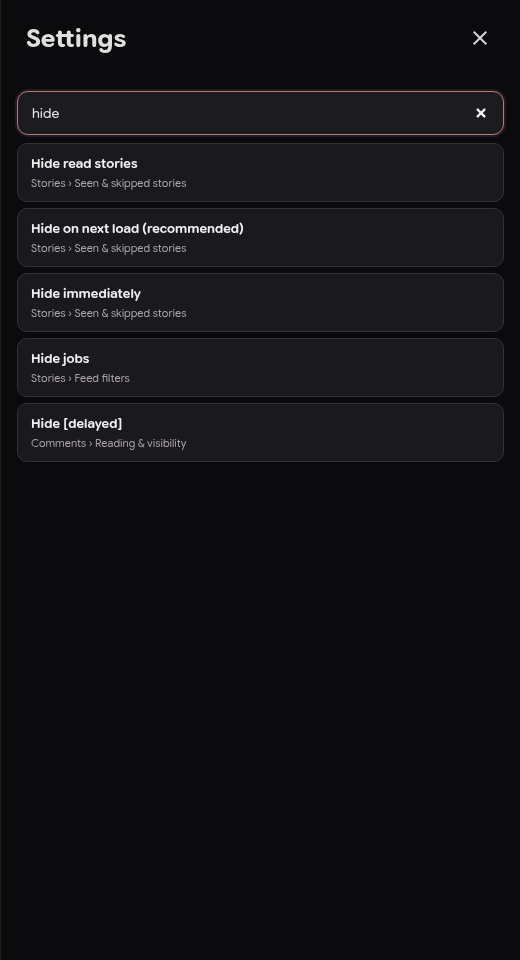
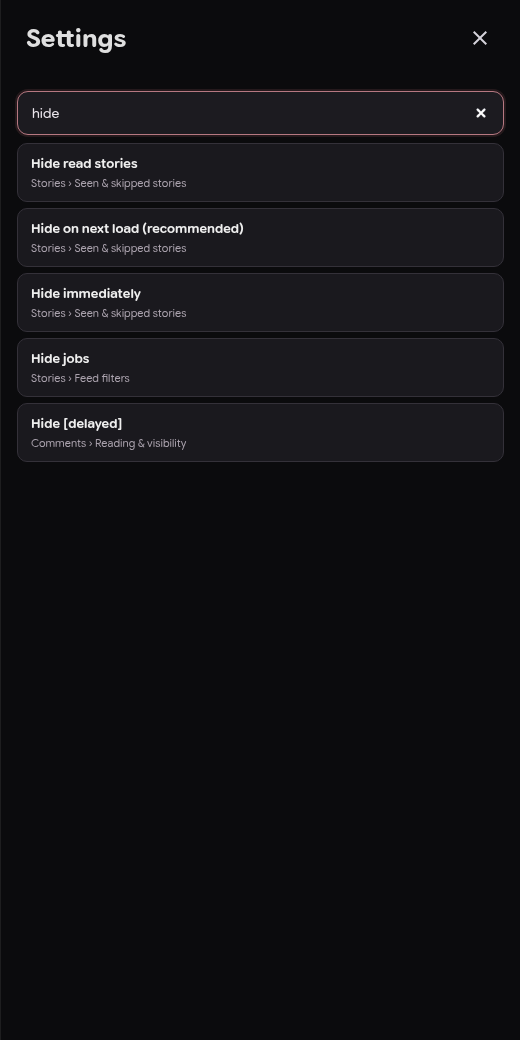
refactor: simplify scrolled-past choices and separate settings heading

Changed region(s): [[0.0308, 0.0938, 0.9846, 0.4688], [0.0308, 0.0312, 0.2462, 0.0625], [0.8923, 0.0312, 0.9538, 0.0625]]

diff --git a/src/styles.css b/src/styles.css
@@ -201,14 +201,19 @@ html.harmonova-hn *{box-sizing:border-box}
 .story-card.selected{filter:brightness(1.08);box-shadow:0 0 0 2px rgba(255,255,255,.10) inset,0 2px 8px rgba(0,0,0,.32)}
 .harmonova-app[data-dimread="true"] .story-card.is-read{opacity:.25}
 .harmonova-app[data-dimread="false"] .story-card.is-read{opacity:1}
-.harmonova-app[data-scrolledmode="dim"] .story-card.is-skipped,
 .harmonova-app[data-scrolledmode="future"] .story-card.is-skipped{opacity:.25}
-.setting-scrolled-group{border:1px solid rgba(255,255,255,.14);border-radius:10px;padding:14px 14px 10px;margin:10px 0 16px;min-width:0}
-.setting-scrolled-group legend{font-weight:650;padding:0 6px}
-.setting-scrolled-option{display:flex;gap:12px;align-items:center;padding:10px 3px;cursor:pointer}
-.setting-scrolled-option input{accent-color:#dedede;flex:0 0 auto}
-.setting-scrolled-copy{display:flex;flex-direction:column;gap:3px;min-width:0}
-.setting-scrolled-copy small{color:#aaa;font-size:12px;line-height:1.4}
+/* Visually separate skipped-by-scrolling from opened/read-story toggles.
+   Avoid a fieldset legend: it looks like it belongs to Hide read stories. */
+.setting-scrolled-group{margin:16px 0 0;padding:19px 1px 4px;border:0;border-top:1px solid rgba(255,255,255,.16);min-width:0}
+.setting-scrolled-title{margin:0 0 6px;color:#ede9ef;font-size:14px;font-weight:720}
+.setting-scrolled-description{margin:0 0 11px;font-size:12px;color:#aaa5ae;line-height:1.5}
+.setting-scrolled-choices{border:1px solid rgba(255,255,255,.09);border-radius:10px;background:#19191d;padding:5px 12px}
+.setting-scrolled-option{display:flex;gap:12px;align-items:flex-start;padding:13px 3px;cursor:pointer}
+.setting-scrolled-option+.setting-scrolled-option{border-top:1px solid rgba(255,255,255,.07)}
+.setting-scrolled-option input{accent-color:#dedede;flex:0 0 auto;margin-top:3px}
+.setting-scrolled-copy{display:flex;flex-direction:column;gap:4px;min-width:0}
+.setting-scrolled-copy strong{font-size:13px}
+.setting-scrolled-copy small{color:#aaa;font-size:12px;line-height:1.45}
 .story-card-main{
   min-width:0;
   align-self:stretch;

diff --git a/src/content/settings.js b/src/content/settings.js
@@ -23,13 +23,19 @@
   }
 
   function scrolledStorySetting() {
-    const wrap = dependencies.el("fieldset", "setting-scrolled-group");
-    wrap.appendChild(dependencies.el("legend", "", "Scrolled-past stories"));
-    wrap.appendChild(dependencies.el("p", "settings-note", "Choose what happens when a story is scrolled past and leaves the visible area."));
+    // A standard section, not a fieldset legend, keeps this setting clearly
+    // separate from the preceding Hide read stories toggle.
+    const wrap = dependencies.el("section", "setting-scrolled-group");
+    const heading = dependencies.el("h4", "setting-scrolled-title", "Scrolled-past stories");
+    heading.id = "harmonova-scrolled-story-heading";
+    const description = dependencies.el("p", "setting-scrolled-description",
+      "Separate from stories you open. Choose what happens after a story scrolls above the feed.");
+    const choices = dependencies.el("div", "setting-scrolled-choices");
+    choices.setAttribute("role", "radiogroup");
+    choices.setAttribute("aria-labelledby", heading.id);
+    wrap.append(heading, description, choices);
     const options = [
       ["off", "Off (default)", "Do not track scrolled-past stories."],
-      ["track", "Track only", "Remember skipped stories without changing their appearance."],
-      ["dim", "Grey out", "Keep stories visible but dim them after scrolling past."],
       ["future", "Hide on next load (recommended)", "Grey out immediately. Keep stories available for scrolling back up; hide them after refreshing, reopening, or switching feeds."],
       ["immediate", "Hide immediately", "Remove stories once they scroll completely above the viewport. Scrolling back to them is not possible."],
     ];
@@ -51,7 +57,7 @@
       const detail = dependencies.el("span", "setting-scrolled-copy");
       detail.append(dependencies.el("strong", "", title), dependencies.el("small", "", description));
       label.append(radio, detail);
-      wrap.appendChild(label);
+      choices.appendChild(label);
     }
     return wrap;
   }

diff --git a/src/settings-schema.js b/src/settings-schema.js
@@ -52,7 +52,7 @@
   const blockedKeys=new Set(['__proto__','prototype','constructor']);
   const username=v=>typeof v==='string' && /^[A-Za-z0-9_-]{1,32}$/.test(v) && !blockedKeys.has(v);
   const ranges={storyTextSize:[14.5,20.5],commentTextSize:[12,18],commentZoom:[65,150],contentScale:[65,150]};
-  const enums={scrolledStoryBehavior:['off','track','dim','future','immediate'],previewImages:['small','medium','off'],commentStyle:['outlined','raised','standard','flat'],depthMode:['theme_default','material_you','colors','author','monochrome','none'],commentSort:['Default','Newest first','Oldest first','Reply count'],faviconProvider:['google','duckduckgo','direct'],uiTheme:['amoled','charcoal','navy'],uiFont:['rounded','system','serif']};
+  const enums={scrolledStoryBehavior:['off','future','immediate'],previewImages:['small','medium','off'],commentStyle:['outlined','raised','standard','flat'],depthMode:['theme_default','material_you','colors','author','monochrome','none'],commentSort:['Default','Newest first','Oldest first','Reply count'],faviconProvider:['google','duckduckgo','direct'],uiTheme:['amoled','charcoal','navy'],uiFont:['rounded','system','serif']};
   const feeds=['top','new','best','ask','show','jobs','pool','active','bestcomments','launches','whoishiring','noobstories','classic','front'];
   function valid(key,value) {
     if(!Object.hasOwn(defaults,key)||blockedKeys.has(key))return false;
@@ -67,6 +67,7 @@
   function normalize(value,complete=true) {
     const out=complete?{...defaults}:{};
     if(!value || typeof value!=='object' || Array.isArray(value))return out;
+    // Removed 'track' and 'dim' modes become Off, never an implicit hide.
     for(const key of Object.keys(defaults)) {
       const v=key==='uiFont'&&value[key]==='harmonic'?'system':value[key];
       if(Object.hasOwn(value,key)&&valid(key,v))out[key]=Array.isArray(v)?[...new Set(v)]:v;

diff --git a/docs/FEATURES.md b/docs/FEATURES.md
@@ -16,7 +16,7 @@ Choose a feed from the title menu: Top, New, Best, Ask HN, Show HN, Jobs, and ad
 
 Each story card can show its title, points, domain, age, reply count, local domain marker, and an optional preview image. Card tints help stories stand apart without turning the entire page into a grid of boxes. Story settings let you change density, preview sizing, points display, dimming for read stories, keyword/domain filters, and whether a card click opens the article or its comments.
 
-The optional **Scrolled-past stories** setting offers five modes: **Off (default)**, **Track only**, **Grey out**, **Hide on next load (recommended)**, and **Hide immediately**. A story is recorded only after a user scrolls it above the feed viewport. Grey out preserves cards while dimming them; Hide on next load immediately dims but retains cards for scrolling back until refresh/reopen/switch; Hide immediately removes crossed cards while attempting to preserve visible scroll position. Excluded candidates are replaced by eligible stories to fill the 20-story initial batch or 32-story Load more batch when the source contains enough matches. Scrolled history is local to the extension and shared across feed lists by HN item ID, not title or position.
+The optional **Scrolled-past stories** setting offers three modes: **Off (default)**, **Hide on next load (recommended)**, and **Hide immediately**. A story is recorded only after a user scrolls it above the feed viewport. Hide on next load immediately greys cards out but retains them for scrolling back until refresh/reopen/switch; Hide immediately removes crossed cards while attempting to preserve visible scroll position. Excluded candidates are replaced by eligible stories to fill the 20-story initial batch or 32-story Load more batch when the source contains enough matches. Scrolled history is local to the extension and shared across feed lists by HN item ID, not title or position.
 
 Right-click or long-press a read story card and choose **Mark as unread** to undo the dimming and remove that story from saved read history.
 
@@ -61,7 +61,7 @@ Open **Settings** from HarmoNova's menu or the extension toolbar popup.
 
 The new layout keeps complex controls in dedicated disclosure groups. The [Stories subgroups](assets/settings-redesign-stories.png), [seen-story behavior options](assets/settings-redesign-seen-options.png), [Comments subgroups](assets/settings-redesign-comments.png), and [settings search](assets/settings-redesign-search.png) are shown in browser-captured screenshots from the opt-in feature branch.
 
-Settings are organized by **Stories, Comments, Appearance, Web and links, AI Summarization, Account, Data, and Updates**. Use **Search settings…** at the top to jump directly to a control; otherwise open a category, then expand its short, clearly labeled subgroups. Advanced options remain available without crowding the screen. The Stories subgroups are **Seen & skipped stories**, **Feed filters**, **Previews & card design**, **Story details**, **Text & density**, and **Opening stories**. The five exclusive scrolled-past modes remain together under Seen & skipped stories; new tracking still defaults to Off. **Data → Delete & reset** is intentionally collapsed until opened. The secure AI and external-preview panels remain inside their original permission boundaries. You can choose an AMOLED-black, charcoal, or deep-navy color scheme; use Google Sans Flex Rounded by default or switch to System UI or Serif; adjust zoom and story display; change comment treatment; control preview images; and configure link behavior. In **Data** you can export or import bookmarks, read-story IDs, user tags, and blocked-user rules as a JSON file. The **Delete data** controls separately clear reading history, saved tags/bookmarks/blocks and session drafts, or reset settings (including AI permissions and preview controls, but not your API key). **Delete all HarmoNova data** additionally removes the saved API key and update-check records. Each action asks for confirmation and does not delete anything from your Hacker News account.
+Settings are organized by **Stories, Comments, Appearance, Web and links, AI Summarization, Account, Data, and Updates**. Use **Search settings…** at the top to jump directly to a control; otherwise open a category, then expand its short, clearly labeled subgroups. Advanced options remain available without crowding the screen. The Stories subgroups are **Seen & skipped stories**, **Feed filters**, **Previews & card design**, **Story details**, **Text & density**, and **Opening stories**. The three exclusive scrolled-past modes remain together under Seen & skipped stories; new tracking still defaults to Off. **Data → Delete & reset** is intentionally collapsed until opened. The secure AI and external-preview panels remain inside their original permission boundaries. You can choose an AMOLED-black, charcoal, or deep-navy color scheme; use Google Sans Flex Rounded by default or switch to System UI or Serif; adjust zoom and story display; change comment treatment; control preview images; and configure link behavior. In **Data** you can export or import bookmarks, read-story IDs, user tags, and blocked-user rules as a JSON file. The **Delete data** controls separately clear reading history, saved tags/bookmarks/blocks and session drafts, or reset settings (including AI permissions and preview controls, but not your API key). **Delete all HarmoNova data** additionally removes the saved API key and update-check records. Each action asks for confirmation and does not delete anything from your Hacker News account.
 
 | Appearance | Story settings |
 | --- | --- |

diff --git a/docs/HIDE_SEEN_STORIES_PLAN.md b/docs/HIDE_SEEN_STORIES_PLAN.md
@@ -4,13 +4,11 @@ Branch: `feature/hide-seen-stories` (isolated worktree, branched from `e195e35`)
 
 ## Product contract
 
-Exactly one global Stories preference: `scrolledStoryBehavior` with values `off`, `track`, `dim`, `future`, `immediate`. Default is `off`; keep existing preferences through upgrades.
+Exactly one global Stories preference: `scrolledStoryBehavior` with values `off`, `future`, `immediate`. Default is `off`; keep existing preferences through upgrades.
 
 | Mode | Record crossed story IDs? | Immediate appearance | Newly reconstructed feed |
 | --- | --- | --- | --- |
 | Off (default) | No | Unchanged | Unchanged |
-| Track only | Yes | Unchanged | Do not exclude skipped IDs |
-| Grey out | Yes | Dim crossed cards | Render skipped IDs dimmed |
 | Hide on next load (recommended) | Yes | Dim crossed cards, do not remove them | Exclude skipped IDs, refill batch |
 | Hide immediately | Yes | Remove fully crossed cards and restore scroll anchor | Exclude skipped IDs, refill batch |
 
@@ -41,7 +39,7 @@ All modes respect the independent legacy Hide read preference. Disabling trackin
 
 ## UX details
 
-- Radio-style Stories fieldset follows screenshot wording; label the future mode `(recommended)` without enabling it by default. All five values form one exclusive setting.
+- Radio-style Stories section uses a distinct heading, not a fieldset legend adjacent to Hide read stories; label the future mode `(recommended)` without enabling it by default. All three values form one exclusive setting.
 - The first story is not silently marked read merely because it was preselected by the UI.
 - After true exhaustion, show an honest caught-up empty state. Newly enabled visibility filters reconstruct the feed so eligible cards are replenished.
 - Immediate hiding can make upward scrolling impossible to removed cards; this is intentional and explained in Settings. Recommended deferred hiding avoids that effect.
@@ -69,4 +67,6 @@ The Settings sidebar uses the same eight top-level categories, ordered by readin
 
 Every category has native keyboard-accessible `<details>` disclosure groups. The first useful group is expanded by default; others are initially collapsed, and multiple may stay open. Stories: Seen & skipped stories, Feed filters, Previews & card design, Story details, Text & density, Opening stories. Comments: Reading & visibility, Layout & sorting, Interaction & authors, Text & size. Appearance: Theme & typography, Discussion header. Web and links: Link preview details, External preview access. AI: Model & permissions. Account: Hacker News session, Account actions, Account privacy. Data: Backup & restore, Delete & reset. Updates: Release notices, Check for updates.
 
-Groupings do not alter the underlying setting keys, defaults, validators, storage, background message routing, or permission surfaces. The five-option scrolled-past selector is kept together and remains opt-in. Destructive Data actions are behind an explicit disclosure, but retain their existing trusted-event and confirmation checks. Existing AI and preview iframes stay extension-owned rather than being moved to untrusted pages. Browser regression tests cover category structure, search navigation and focus, persistence, hiding of destructive controls, all eight category pages, and the existing settings data reset and update flows.
+Groupings do not alter the underlying setting keys, defaults, validators, storage, background message routing, or permission surfaces. The three-option scrolled-past selector is kept together and remains opt-in. Destructive Data actions are behind an explicit disclosure, but retain their existing trusted-event and confirmation checks. Existing AI and preview iframes stay extension-owned rather than being moved to untrusted pages. Browser regression tests cover category structure, search navigation and focus, persistence, hiding of destructive controls, all eight category pages, and the existing settings data reset and update flows.
+
+The removed Track only and Grey out modes normalize safely to Off when reading older stored preferences; this does not opt users into hiding. Read and skipped ID history remains intact until explicitly cleared.

diff --git a/CHANGELOG.md b/CHANGELOG.md
@@ -6,7 +6,8 @@ The format is based on [Keep a Changelog](https://keepachangelog.com/en/1.1.0/),
 
 ## [Unreleased]
 
-- Reorganize all eight Settings categories into concise disclosure groups with descriptive category navigation and cross-category search; preserve every existing preference and the opt-in five-mode scrolled-past story control.
+- Reorganize all eight Settings categories into concise disclosure groups with descriptive category navigation and cross-category search, preserving existing preferences.
+- Simplify scrolled-past choices to Off, Hide on next load (recommended), and Hide immediately, with a visually distinct section heading. Retired Track only/Grey out preferences fall back safely to Off.
 
 - Gate release publication on version-tag-triggered GitHub Actions tests and package checks.
 - Remove obsolete planning references and consolidate overlapping documentation guidance.
